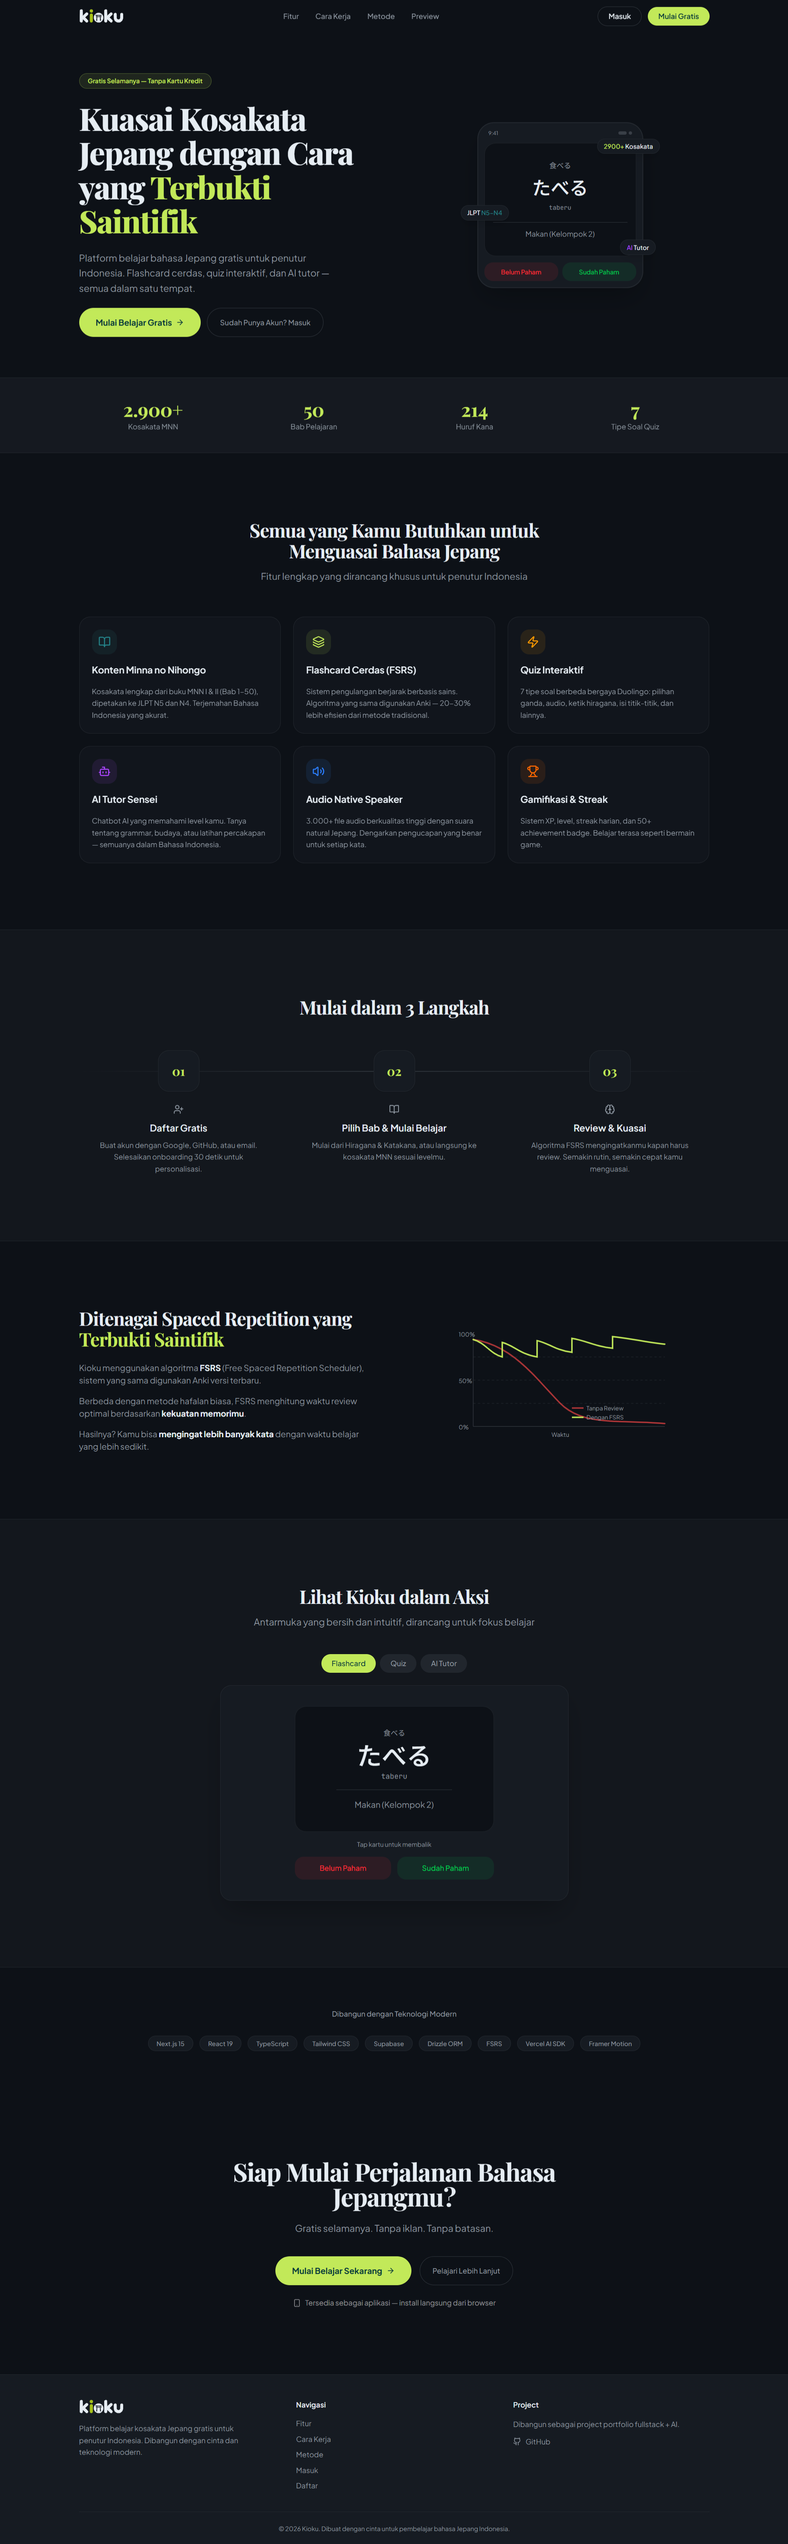
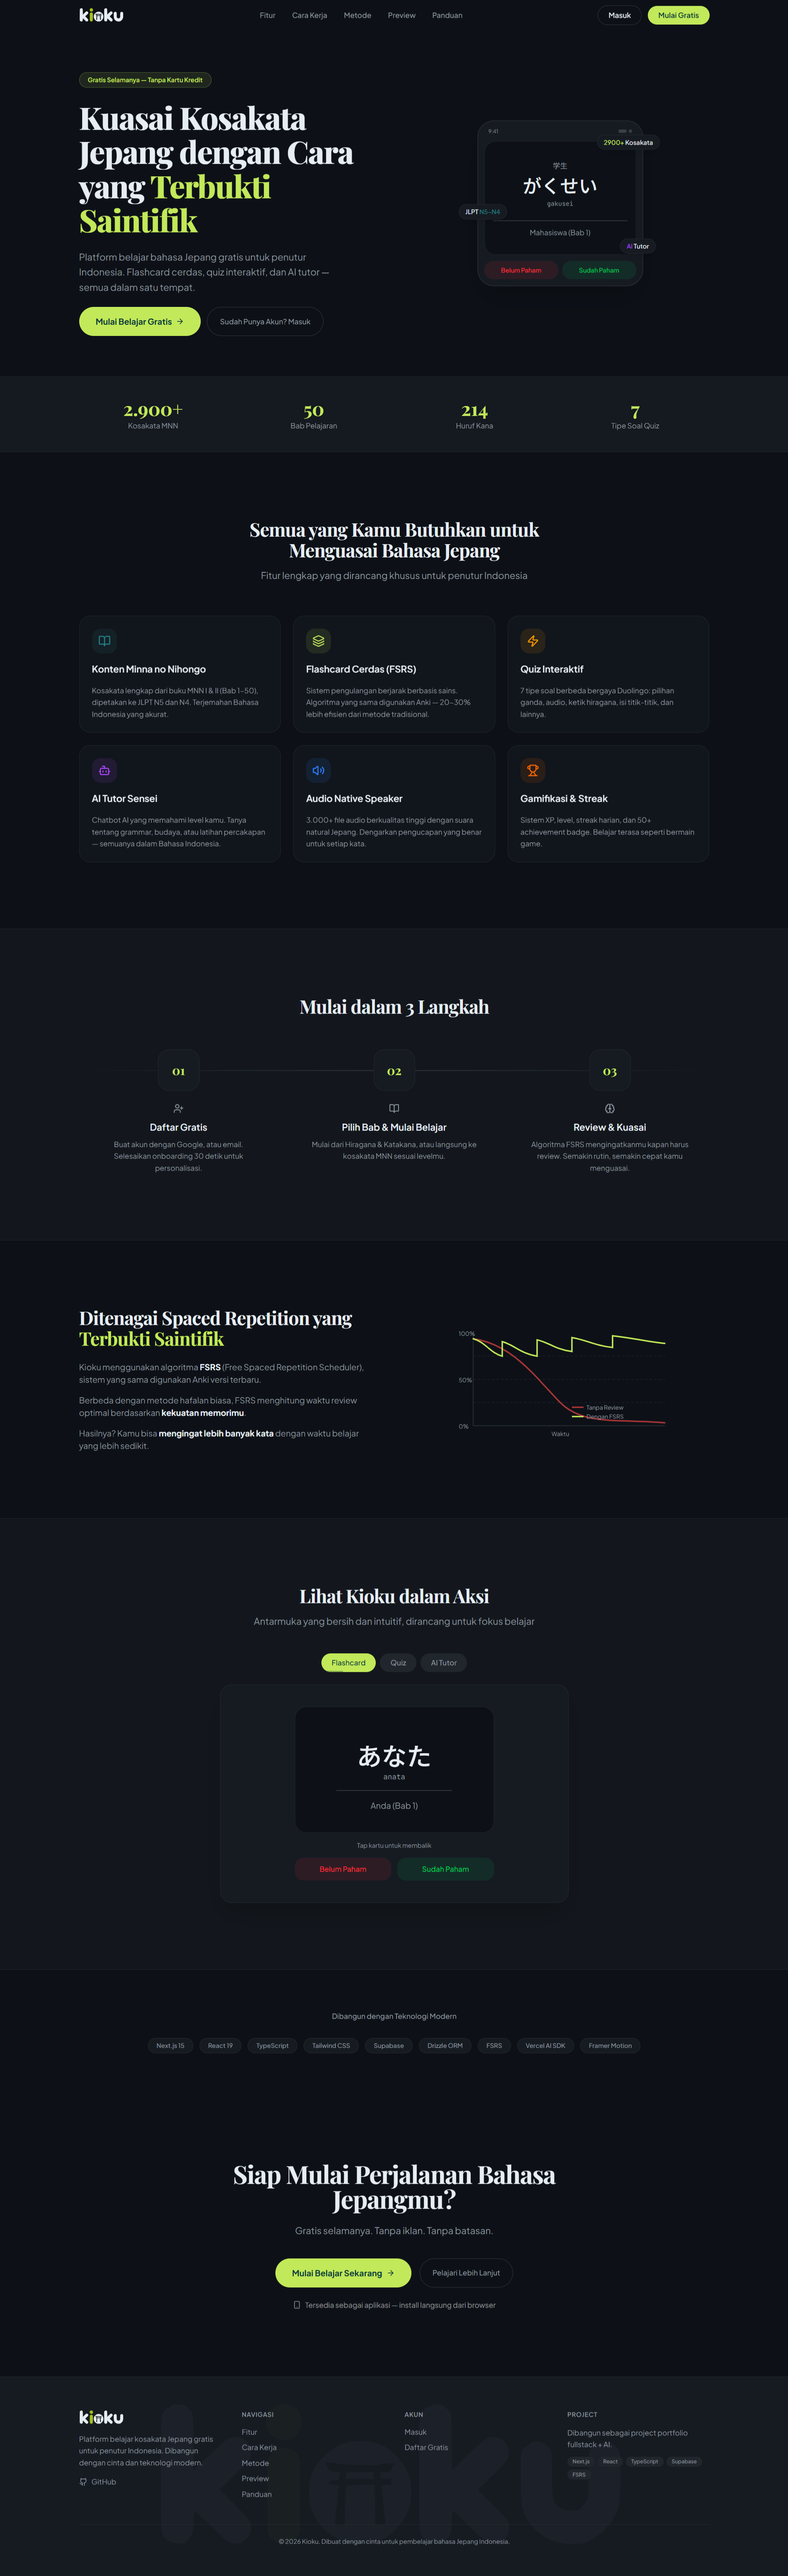
docs: add Phase 7 (Community & Feedback) concept to project documentation
- Add Public Stats Page (/community) concept with metrics, visualization, trust signals
- Add Feedback System concept with 4-tab modal (Bug/Saran/Pendapat/Rating)
- Add 2 new database tables (feedback, public_stats_cache) with enum types
- Add 2 new user flows (Public Stats, Feedback Submission)
- Add 3 endpoint specs (Public Stats, Feedback, Admin Phase 8)
- Add 17 new UI components for Stats & Feedback
- Mark Admin Analytics as Phase 8 (future)
- Note: Implementation pending UI prototype in Claude Design first

diff --git a/designs/kioku-project-spec.md b/designs/kioku-project-spec.md
@@ -88,6 +88,9 @@ Konten utama bersumber dari buku **Minna no Nihongo (MNN)** Buku I (Bab 1–25) 
 | 18 | **Pembelajaran Kanji** | Kanji dengan dekomposisi radikal, stroke order, terinspirasi WaniKani |
 | 19 | **Leaderboard** | Peringkat pengguna berdasarkan XP, streak, akurasi |
 | 20 | **Mode Offline (PWA)** | Service worker untuk cache kosakata, audio, dan state kartu. Sync saat online |
+| 21 | **Public Stats Page** | Halaman publik (/community) yang showcase metrics komunitas: total users, reviews, quiz answers, words mastered. Activity highlights, content stats, trust signals. Privacy-respecting (fully aggregated, anonymized). Cache 5 menit. Animated count-up. CTA bergabung. |
+| 22 | **Feedback System** | Modal feedback dengan 4 kategori (Bug/Saran/Pendapat/Rating). Floating button kanan bawah + profile dropdown menu. Bug reports include page URL + screenshot upload. Public testimonial wall opt-in (Phase 8). Anonymous submission supported dengan rate limiting. |
+| 23 | **Admin Analytics** (Phase 8) | Private dashboard untuk founder: growth metrics (D1/D7/D30 retention), engagement (DAU/WAU/MAU), feature adoption, funnel analysis, feedback inbox dengan filter, bug tracker dengan priority, feature request voting. |
 
 ## Hal yang Perlu Dipertimbangkan
 
@@ -310,6 +313,23 @@ CREATE TYPE xp_source AS ENUM (
 -- Provider AI
 CREATE TYPE ai_provider AS ENUM (
   'gemini', 'groq', 'openrouter', 'cloudflare', 'webllm', 'cache'
+);
+
+-- Tipe feedback
+CREATE TYPE feedback_type AS ENUM (
+  'bug',          -- Bug report
+  'feature',      -- Feature request / saran fitur baru
+  'general',      -- General feedback / pendapat umum
+  'rating'        -- Quick star rating
+);
+
+-- Status feedback
+CREATE TYPE feedback_status AS ENUM (
+  'new',          -- Belum direview
+  'reviewing',    -- Sedang direview admin
+  'in_progress',  -- Sedang dikerjakan
+  'resolved',     -- Sudah selesai
+  'wontfix'       -- Tidak akan dikerjakan
 );
 ```
 
@@ -795,6 +815,49 @@ CREATE INDEX idx_template_vocab ON ai_question_template(vocabulary_id);
 CREATE INDEX idx_template_type ON ai_question_template(question_type);
 ```
 
+### 21. Tabel `feedback` (Feedback dari User)
+
+```sql
+CREATE TABLE feedback (
+  id              UUID PRIMARY KEY DEFAULT gen_random_uuid(),
+  user_id         UUID REFERENCES "user"(id) ON DELETE SET NULL,
+  type            feedback_type NOT NULL,
+
+  title           VARCHAR(200),                   -- Judul singkat (untuk bug/saran)
+  content         TEXT NOT NULL,                  -- Deskripsi utama
+  rating          SMALLINT CHECK (rating BETWEEN 1 AND 5),  -- Untuk tipe rating/pendapat
+  page_url        TEXT,                            -- URL halaman tempat bug terjadi
+  screenshot_url  TEXT,                            -- URL screenshot di Supabase Storage
+
+  show_publicly   BOOLEAN DEFAULT false,          -- User opt-in untuk tampil di public wall
+  public_approved BOOLEAN DEFAULT false,          -- Admin approval untuk public wall
+  status          feedback_status NOT NULL DEFAULT 'new',
+  admin_notes     TEXT,                            -- Catatan internal admin
+
+  created_at      TIMESTAMPTZ DEFAULT NOW(),
+  updated_at      TIMESTAMPTZ DEFAULT NOW()
+);
+
+CREATE INDEX idx_feedback_user ON feedback(user_id);
+CREATE INDEX idx_feedback_type_status ON feedback(type, status);
+CREATE INDEX idx_feedback_public ON feedback(show_publicly, public_approved)
+  WHERE show_publicly = true;
+CREATE INDEX idx_feedback_created ON feedback(created_at DESC);
+```
+
+### 22. Tabel `public_stats_cache` (Cache Stats Publik)
+
+```sql
+CREATE TABLE public_stats_cache (
+  id              SERIAL PRIMARY KEY,
+  key             VARCHAR(100) UNIQUE NOT NULL,    -- e.g. "total_users", "total_reviews"
+  value           JSONB NOT NULL,                  -- Cached value (number, object, atau array)
+  updated_at      TIMESTAMPTZ DEFAULT NOW()
+);
+
+CREATE INDEX idx_stats_cache_updated ON public_stats_cache(updated_at);
+```
+
 ### Row Level Security (RLS) — Contoh Kritis
 
 ```sql
@@ -818,6 +881,22 @@ CREATE POLICY vocab_read_policy ON vocabulary
 
 ALTER TABLE kana ENABLE ROW LEVEL SECURITY;
 CREATE POLICY kana_read_policy ON kana
+  FOR SELECT USING (true);
+
+-- Feedback: user bisa create + read feedback mereka sendiri
+ALTER TABLE feedback ENABLE ROW LEVEL SECURITY;
+CREATE POLICY feedback_user_insert_policy ON feedback
+  FOR INSERT WITH CHECK (user_id = auth.uid() OR user_id IS NULL);
+CREATE POLICY feedback_user_read_policy ON feedback
+  FOR SELECT USING (user_id = auth.uid());
+
+-- Public testimonial wall: siapa saja bisa baca yang sudah approved
+CREATE POLICY feedback_public_read_policy ON feedback
+  FOR SELECT USING (show_publicly = true AND public_approved = true);
+
+-- Public stats cache: bisa diakses semua orang (read-only)
+ALTER TABLE public_stats_cache ENABLE ROW LEVEL SECURITY;
+CREATE POLICY stats_cache_read_policy ON public_stats_cache
   FOR SELECT USING (true);
 ```
 
@@ -1090,6 +1169,93 @@ CREATE POLICY kana_read_policy ON kana
     +-----------------------------------+
 ```
 
+## Flow 8: Public Stats Page (Tanpa Login)
+
+```
+[Visitor masuk ke kioku-learn.vercel.app]
+     |
+     v
+[Klik footer link "Komunitas" / "Stats" atau ke /community]
+     |
+     v
+[/community page loads — public, no auth required]
+  - Hero section: "Komunitas Kioku" + tagline
+  - Big numbers grid (4 cards animated count-up):
+    - Total Users
+    - Total Reviews Done
+    - Total Quiz Answered
+    - Total Words Mastered
+  - Activity highlights (3 cards):
+    - Average Quiz Accuracy
+    - Longest Streak Record
+    - Most Active Today
+  - Visualization section:
+    - Aggregated activity heatmap (last 90 days, anonymized)
+    - ATAU growth chart (signup over time)
+  - Content stats grid:
+    - 2.909 vocabulary words
+    - 214 kana characters
+    - 3.085 audio files
+    - 50 chapters across N5 + N4
+  - Trust signals row:
+    - "Built with FSRS — same algorithm as Anki"
+    - "100% free, no ads"
+    - "Privacy-first, data minimization"
+  - CTA: "Bergabung dengan Kioku" -> /register
+  - (Phase 8) Public testimonial carousel
+     |
+     v
+[Klik CTA -> Redirect ke register / sign up flow]
+```
+
+## Flow 9: Memberikan Feedback
+
+```
+[User di halaman manapun] -> Klik floating feedback button (kanan bawah)
+                              ATAU klik "Berikan Feedback" di profile dropdown
+     |
+     v
+[Feedback Modal Opens]
+  - 4 tab navigation: Bug | Saran | Pendapat | Rating
+  - Default tab: berdasarkan trigger context (default Saran)
+     |
+     +-- Tab Bug:
+     |   - Halaman tempat bug (auto-detected dari current URL, editable)
+     |   - Deskripsi singkat (textarea, required)
+     |   - Steps to reproduce (textarea, optional)
+     |   - Screenshot upload (drag-drop atau klik, optional, max 2MB)
+     |
+     +-- Tab Saran:
+     |   - Judul singkat (input, required)
+     |   - Deskripsi detail (textarea, required)
+     |   - Kategori (radio: UI/UX, Fitur Baru, Performance, Lainnya)
+     |
+     +-- Tab Pendapat:
+     |   - Rating 1-5 stars (interactive)
+     |   - Free text comment (textarea, optional)
+     |   - Checkbox: "Boleh tampilkan komentar saya di halaman publik"
+     |
+     +-- Tab Rating:
+         - Just stars 1-5 (large, interactive)
+         - Optional 1-line comment (input)
+     |
+     v
+[Klik Submit]
+  - Validation: minimal content tidak boleh kosong (kecuali Rating tab)
+  - Send POST /api/v1/feedback
+  - Loading state pada button
+     |
+     v
+[Success State]
+  - Replace form dengan thank you message
+  - "Terima kasih! Feedback kamu sangat berarti."
+  - "Kami akan tinjau dan respons jika perlu."
+  - Tombol [Tutup] dan [Kirim Feedback Lain]
+     |
+     v
+[Modal close — kembali ke halaman sebelumnya]
+```
+
 ## Yang Dilihat Pengguna di Dashboard
 
 ```
@@ -1217,6 +1383,31 @@ CREATE POLICY kana_read_policy ON kana
 | GET | `/api/v1/progress/chapters/:id` | Progres detail satu bab | auth | `{ progress, vocab_breakdown }` |
 | GET | `/api/v1/progress/jlpt/:level` | Progres per JLPT level | auth | `{ total, learned, percentage }` |
 | GET | `/api/v1/progress/daily` | Aktivitas harian (30 hari) | auth | `{ daily_activities[] }` |
+
+## Public Stats Endpoints
+
+| Method | Path | Deskripsi | Middleware | Response |
+|--------|------|-----------|------------|----------|
+| GET | `/api/v1/stats/public` | Public stats untuk /community page (cached 5 min) | - | `{ stats: { total_users, total_reviews, total_quiz, total_words_mastered, avg_accuracy, longest_streak, most_active_today, content_stats } }` |
+
+## Feedback Endpoints
+
+| Method | Path | Deskripsi | Middleware | Request Body | Response |
+|--------|------|-----------|------------|-------------|----------|
+| POST | `/api/v1/feedback` | Submit feedback (user atau anonymous) | auth optional, rateLimit | `{ type, title?, content, rating?, page_url?, screenshot_url?, show_publicly? }` | `{ success, feedback_id }` |
+| GET | `/api/v1/feedback/public` | Public testimonials (Phase 8 — approved only) | - | - | `{ testimonials[] }` |
+| POST | `/api/v1/feedback/upload-screenshot` | Upload screenshot ke Supabase Storage | auth, rateLimit | FormData with image | `{ url }` |
+
+## Admin Endpoints (Phase 8 — Belum Diimplementasi)
+
+| Method | Path | Deskripsi |
+|--------|------|-----------|
+| GET | `/api/v1/admin/analytics/growth` | User growth + retention metrics |
+| GET | `/api/v1/admin/analytics/engagement` | DAU/WAU/MAU metrics |
+| GET | `/api/v1/admin/analytics/funnel` | Conversion funnel analysis |
+| GET | `/api/v1/admin/feedback` | All feedback dengan filter (type, status, date range) |
+| PATCH | `/api/v1/admin/feedback/:id` | Update status / admin_notes |
+| POST | `/api/v1/admin/feedback/:id/approve-public` | Approve untuk public testimonial wall |
 
 ---
 
@@ -1398,6 +1589,25 @@ WORD TYPE BADGE COLORS
 - `Toaster` — Toast notification
 - `ProgressRing` — Circular progress indicator
 - `FuriganaText` — Render teks dengan furigana (HTML ruby)
+
+**Stats & Feedback Components (Phase 7):**
+- `PublicStatsHero` — Hero section halaman /community dengan tagline + animated entry
+- `BigNumberCard` — Kartu angka besar dengan count-up animation (untuk total users, reviews, dll)
+- `ActivityHighlightCard` — Kartu highlight kecil (avg accuracy, longest streak, most active today)
+- `AggregatedHeatmap` — Heatmap aktivitas semua user dalam 90 hari (anonim, denormalized)
+- `GrowthChart` — Line chart user growth over time (Recharts)
+- `ContentStatsGrid` — Grid stats konten (2.909 vocab, 214 kana, 3.085 audio, 50 chapters)
+- `TrustSignalsRow` — Row dengan trust indicators (FSRS, free, privacy-first)
+- `TestimonialCarousel` — Carousel komentar user yang opt-in + approved (Phase 8)
+- `FeedbackButton` — Floating button kanan bawah dengan tooltip "Berikan Feedback"
+- `FeedbackModal` — Modal container dengan 4 tab navigation
+- `FeedbackTabBug` — Form khusus bug report
+- `FeedbackTabSuggestion` — Form khusus saran fitur
+- `FeedbackTabOpinion` — Form pendapat dengan rating + opt-in public
+- `FeedbackTabRating` — Quick rating only (stars + optional comment)
+- `FeedbackSuccessState` — Thank you state setelah submit
+- `ScreenshotUploader` — Component upload screenshot dengan drag-drop preview
+- `StarRating` — Interactive 1-5 star rating component (reusable)
 
 ### Layout Responsive
 

diff --git a/CLAUDE.md b/CLAUDE.md
@@ -44,6 +44,8 @@ ai_chat_message: id, session_id(FK), role(user/assistant/system), content, provi
 ai_response_cache: id, prompt_hash(SHA256), response_text, provider, hit_count
 pronunciation_attempt: id, user_id(FK), vocab/kana_id, expected_text, recognized_text, accuracy_score
 ai_question_template: id, vocabulary_id(FK), question_type, question_text, correct_answer, wrong_answers(JSONB)
+feedback: id, user_id?(FK nullable), type(enum: bug/feature/general/rating), title?, content, rating?(1-5), page_url?, screenshot_url?, show_publicly(default false), public_approved(default false), status(enum: new/reviewing/in_progress/resolved/wontfix), admin_notes?, created_at, updated_at
+public_stats_cache: id(serial), key(unique), value(jsonb), updated_at — Denormalized cache untuk public stats page (refresh via cron 5 menit)
 ```
 
 RLS: user data tables → `user_id = auth.uid()`. Content tables (vocabulary, kana, book, chapter) → public read. All 20 tables verified with RLS + correct policies.
@@ -296,6 +298,41 @@ src/
 - [x] Features restructured: tambah sub-header "Documentation & Onboarding" + refresh items (Profile Customization, Account Security, Dynamic Streak Reminder, JLPT Auto-Upgrade).
 - [x] License + Footer dirombak: include MNN copyright disclaimer + portfolio context untuk recruiter.
 - [x] Screenshot order ditata ulang sesuai user-journey: Dashboard → Onboarding Tour → Learn Hub → Smart Study → Summary → Flashcard → Quiz → Kana Grid → Review → Kata Sulit → AI Tutor → Profile.
+
+### [P7] Community & Feedback System (Konsep — Belum Implementasi)
+
+Status: Konsep finalized, UI akan di-prototype di Claude Design dulu sebelum implementasi.
+
+**Public Stats Page** — Halaman publik yang showcase metrics komunitas Kioku:
+- Hero section dengan tagline komunitas
+- Big numbers grid: total users, total reviews, total quiz answered, total words mastered (animated count-up)
+- Activity highlights: avg quiz accuracy, longest streak record, most active today
+- Visualization: aggregated activity heatmap atau growth chart (anonymized)
+- Content stats: vocabulary count, kana count, audio files, chapters count
+- Trust signals: FSRS algorithm, 100% free, no ads
+- CTA: Bergabung dengan Kioku
+- Privacy: fully aggregated, no individual user data exposed
+- Cache: 5 menit (in-memory atau public_stats_cache table)
+- Route: /community
+
+**Feedback System** — Modal feedback dengan 4 kategori:
+- Trigger: floating button kanan bawah + menu item di profile dropdown
+- Tab Bug: page URL (auto-detect), deskripsi, steps to reproduce, screenshot upload (optional)
+- Tab Saran: judul, deskripsi detail, kategori (UI/fitur baru/performance/lainnya)
+- Tab Pendapat: rating 1-5 stars, free text comment, opt-in show publicly
+- Tab Rating: just stars 1-5 + optional 1-line comment
+- Anonymous mode supported untuk user belum login (rate limited)
+- Public testimonial wall (Phase 8) — opt-in approval flow
+
+**Admin Analytics** (Phase 8 — Future, tidak akan diimplementasi sekarang):
+- Growth metrics (D1, D7, D30 retention)
+- Engagement metrics (DAU, WAU, MAU)
+- Feature adoption rates
+- Funnel analysis
+- Feedback inbox + bug tracker
+- Feature request voting
+
+UI/UX direncanakan di Claude Design (claude.ai/design). Setelah prototype approved, akan di-handoff ke Claude Code untuk implementasi.
 
 ---
 
